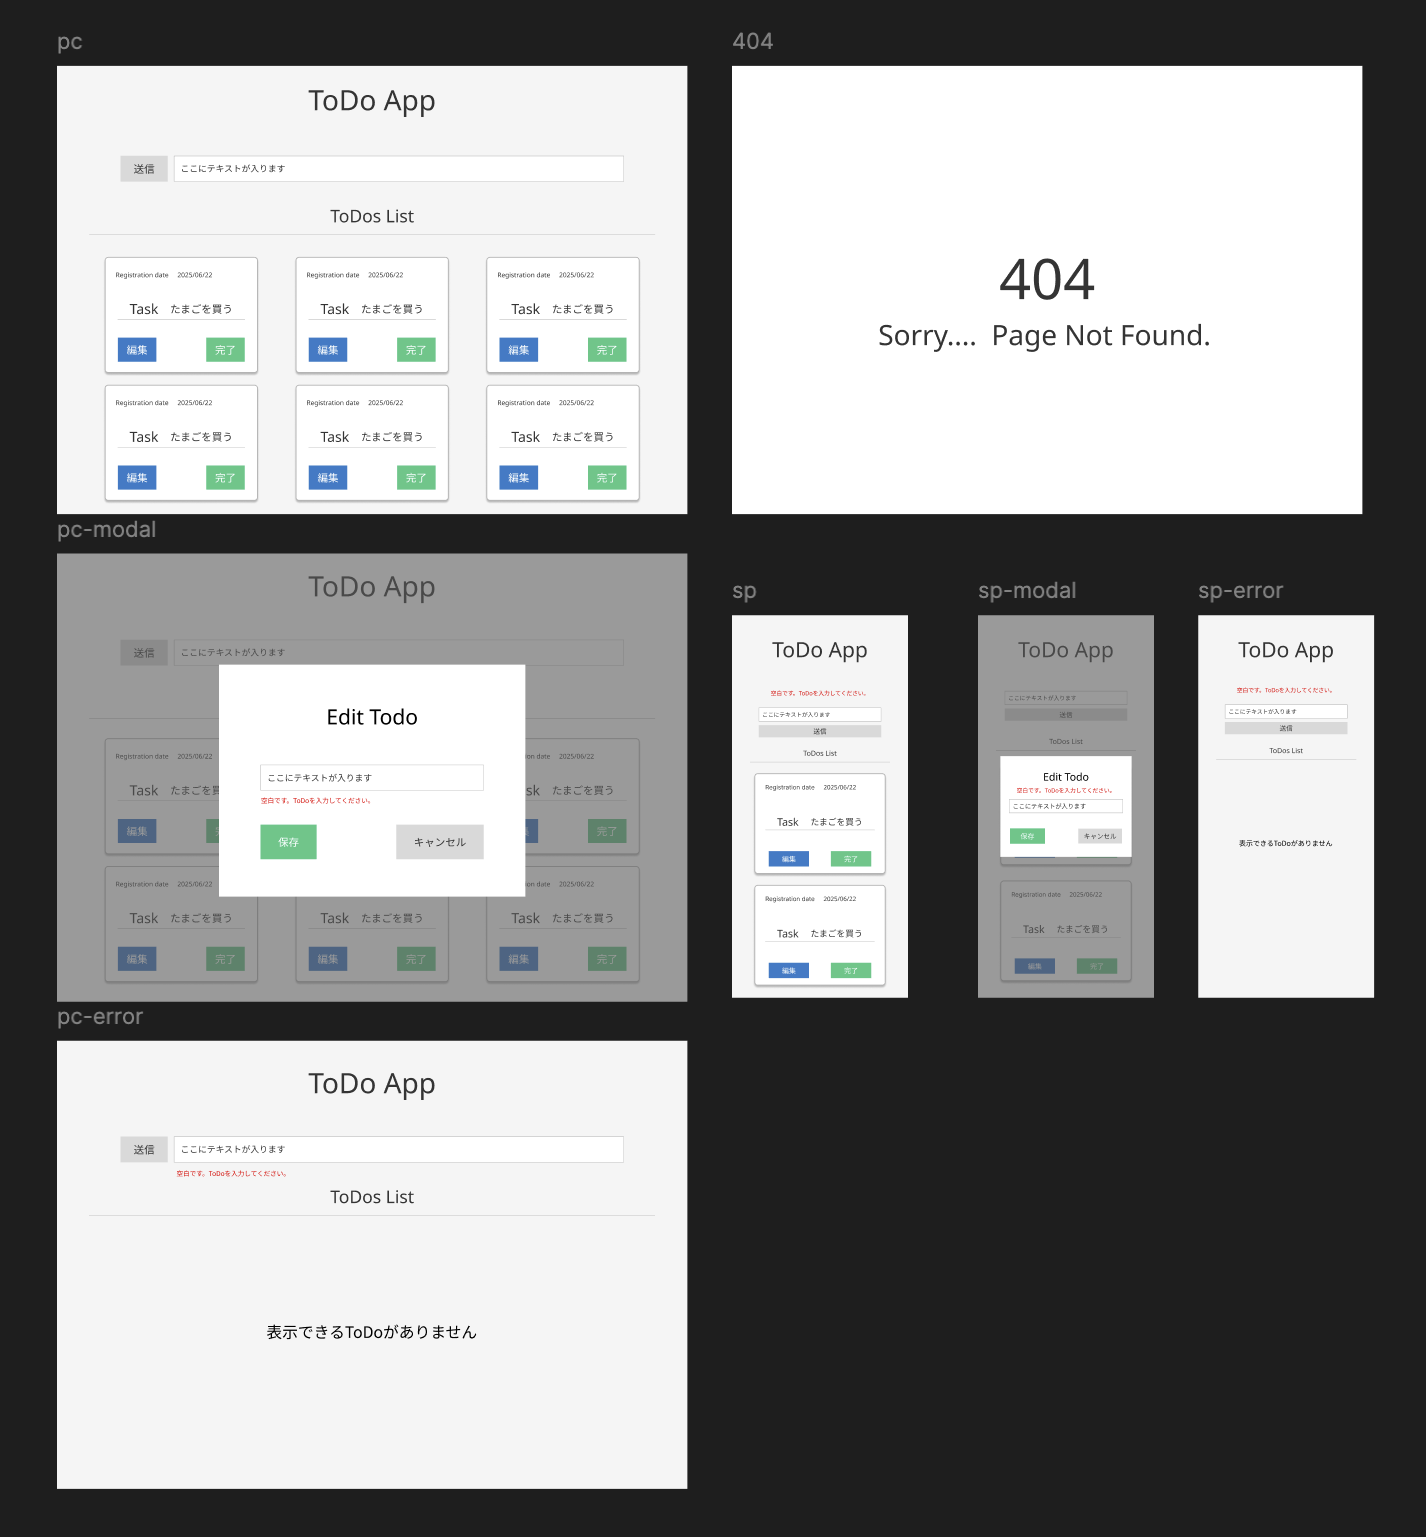
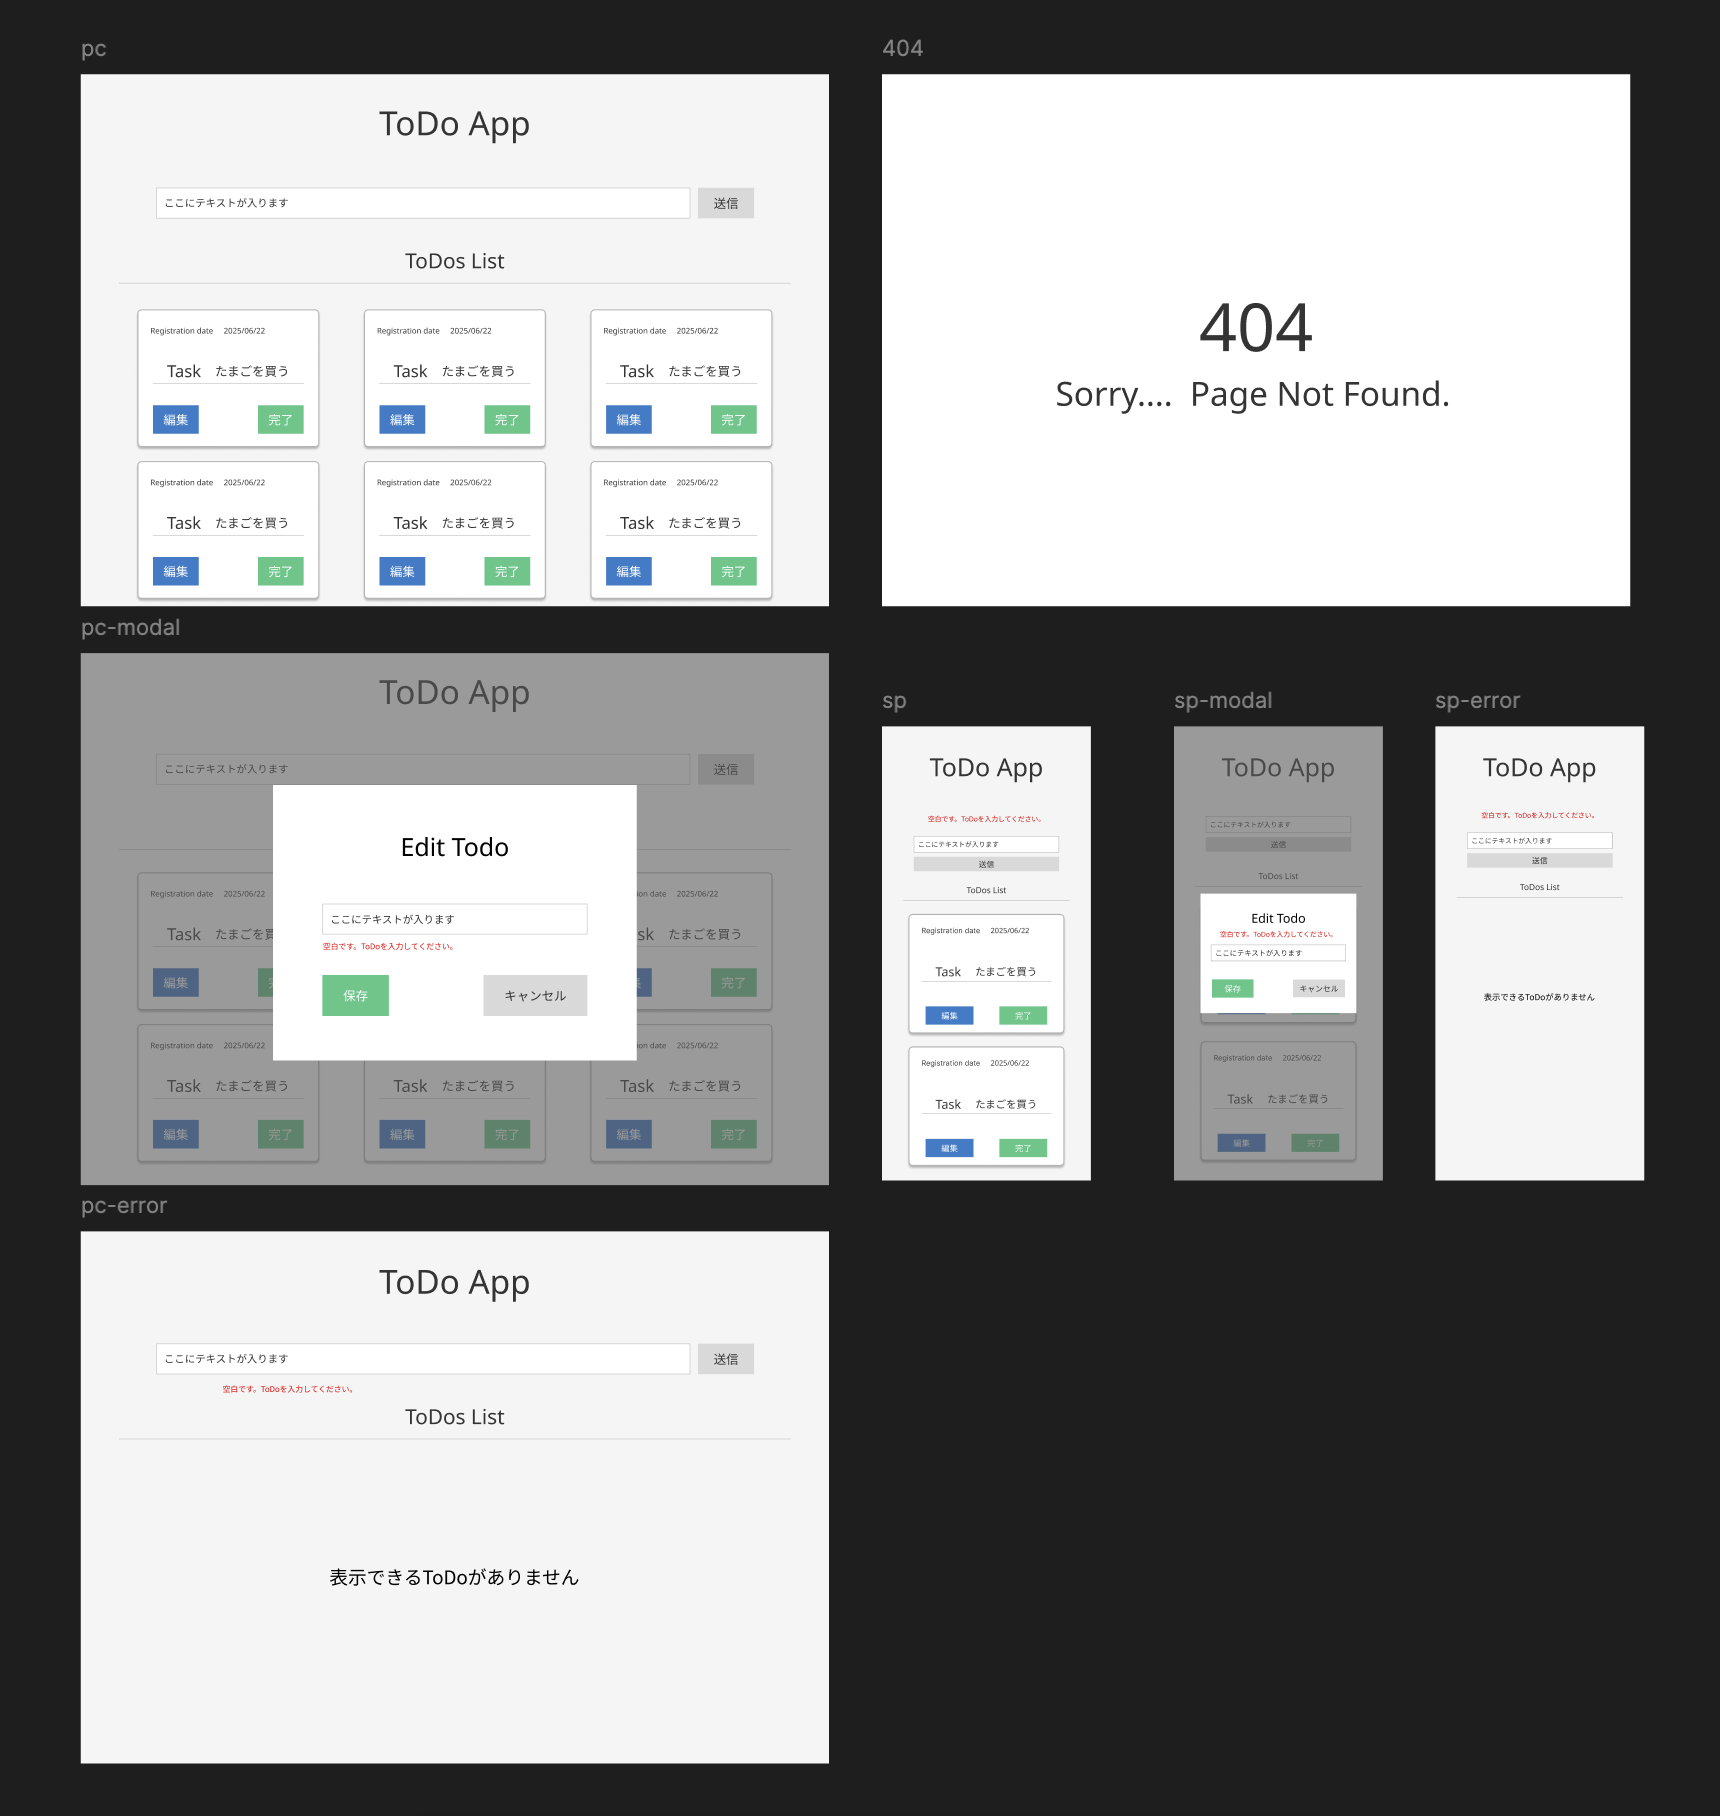
cardコンポーネントのレスポンシブ対応完了

diff --git a/client/src/styles/variants/buttonStyles.js b/client/src/styles/variants/buttonStyles.js
@@ -1,8 +1,8 @@
 export const buttons = {
   grayLarge:
-    'bg-gray py-3.5 px-10 text-2xl inline-block whitespace-nowrap',
-    blue: 'bg-blue py-2.5 px-6 text-2xl text-white-text-color inline-block whitespace-nowrap',
-    gray: 'bg-gray py-2.5 px-8 text-2xl  inline-block whitespace-nowrap',
+    'w-full h-10 sm:w-[20%] sm:max-w-[150px] sm:h-auto sm:mb-0 text-lg sm:text-xl md:text-xl lg:text-2xl bg-gray whitespace-nowrap',
+  gray: 'bg-gray py-2.5 px-8 text-xl  inline-block whitespace-nowrap',
+  blue: 'bg-blue py-2 px-4 text-[16px] text-white-text-color inline-block whitespace-nowrap',
   green:
-    'bg-green py-2.5 px-6 text-2xl text-white-text-color inline-block whitespace-nowrap',
+    'bg-green py-2 px-4 text-[16px] text-white-text-color inline-block whitespace-nowrap',
 };

diff --git a/client/src/styles/variants/cardStyles.js b/client/src/styles/variants/cardStyles.js
@@ -1,0 +1,17 @@
+export const card = {
+  default: {
+    container:
+      'p-8 sm:p-10 border-2 border-base-line-color shadow-xl aspect-square flex flex-col justify-between',
+    date: {
+      layout: 'flex',
+      registration: 'text-xs',
+      time: 'text-xs',
+    },
+    task: {
+      layout:
+        'flex justify-center items-center border-b border-base-line-color',
+      title: 'text-lg sm:text-lg md:text-xl lg:text-2xl',
+      desc: 'text-lg sm:text-lg md:text-lg lg:text-lg ml-5',
+    },
+  },
+};

diff --git a/client/src/components/layout/TodoFormContainer.jsx b/client/src/components/layout/TodoFormContainer.jsx
@@ -1,8 +1,8 @@
 const TodoFormContainer = ({ children }) => {
   return (
-    <section className="flex justify-center mb-20">
-      <div className="w-[80%] flex items-center justify-center">{children}</div>
-    </section>
+    <form className="mb-10 sm:mb-20 md:mb-24 lg:mb-28 flex flex-col sm:flex sm:flex-row sm:items-stretch sm:justify-center">
+      {children}
+    </form>
   );
 };
 

diff --git a/client/src/components/Button.jsx b/client/src/components/Button.jsx
@@ -1,7 +1,7 @@
 import { buttons } from '../styles/variants/buttonStyles';
 
-const Button = ({ text, variant, margin }) => {
-  return <button className={`${buttons[variant]} ${margin}`}>{text}</button>;
+const Button = ({ text, variant }) => {
+  return <button className={`${buttons[variant]}`}>{text}</button>;
 };
 
 export { Button };

diff --git a/client/src/components/TodoForm.jsx b/client/src/components/TodoForm.jsx
@@ -5,8 +5,8 @@ import { TodoFormContainer } from './layout/TodoFormContainer';
 const TodoForm = () => {
   return (
     <TodoFormContainer>
-      <Button text="送信" variant="grayLarge" margin="mr-5" />
       <Input variant="large" />
+      <Button text="送信" variant="grayLarge" />
     </TodoFormContainer>
   );
 };

diff --git a/client/src/components/ToDoCard/CardItem.jsx b/client/src/components/ToDoCard/CardItem.jsx
@@ -1,7 +1,7 @@
 import { Button } from '../Button';
 import { CardDate } from './CardDate';
 import { CardTask } from './CardTask';
-import { card } from '../../styles/variants/card';
+import { card } from '../../styles/variants/cardStyles';
 
 const CardItem = ({ variant }) => {
   const styles = card[variant];

diff --git a/client/src/components/ToDoCard/CardItemWrapper.jsx b/client/src/components/ToDoCard/CardItemWrapper.jsx
@@ -1,5 +1,9 @@
 const CardItemWrapper = ({ children }) => {
-  return <ul className="grid grid-cols-3 gap-35 px-10">{children}</ul>;
+  return (
+    <ul className="p-8 grid grid-cols-1 gap-8 sm:grid sm:grid-cols-2 lg:grid lg:grid-cols-4">
+      {children}
+    </ul>
+  );
 };
 
 export { CardItemWrapper };

diff --git a/client/src/components/layout/Container.jsx b/client/src/components/layout/Container.jsx
@@ -1,6 +1,8 @@
 const Container = ({ children }) => {
   return (
-    <div className="px-20 py-10 mx-auto max-w-screen-full text-center">{children}</div>
+    <div className="px-8 sm:px-14 md:px-18 py-8 sm:py-10 md:py-12 mx-auto max-w-screen-2xl text-center">
+      {children}
+    </div>
   );
 };
 

diff --git a/client/src/components/MainTitle.jsx b/client/src/components/MainTitle.jsx
@@ -1,6 +1,6 @@
-import { titles } from '../styles/variants/title';
+import { titles } from '../styles/variants/titleStyles';
 
-const MainTitle = ({ text, variant = 'large' }) => {
+const MainTitle = ({ text, variant }) => {
   return <h1 className={titles[variant]}>{text}</h1>;
 };
 

diff --git a/client/src/styles/variants/titleStyles.js b/client/src/styles/variants/titleStyles.js
@@ -1,0 +1,4 @@
+export const titles = {
+  large: 'mb-10 sm:mb-12 md:mb-16 text-2xl sm:text-3xl md:text-4xl lg:text-5xl',
+  medium: 'text-base sm:text-lg md:text-xl lg:text-2xl mb-12 sm:mb-15 md:mb-18 lg:mb-20 border-b border-base-line-color',
+};

diff --git a/client/src/components/SubTitle.jsx b/client/src/components/SubTitle.jsx
@@ -1,4 +1,4 @@
-import { titles } from '../styles/variants/title';
+import { titles } from '../styles/variants/titleStyles';
 
 const SubTitle = ({ text, variant }) => {
   return <h2 className={titles[variant]}>{text}</h2>;

diff --git a/client/src/components/Input.jsx b/client/src/components/Input.jsx
@@ -1,4 +1,4 @@
-import { inputs } from '../styles/variants/input';
+import { inputs } from '../styles/variants/inputStyles';
 
 const Input = ({ variant }) => {
   return <input type="text" className={inputs[variant]} />;
